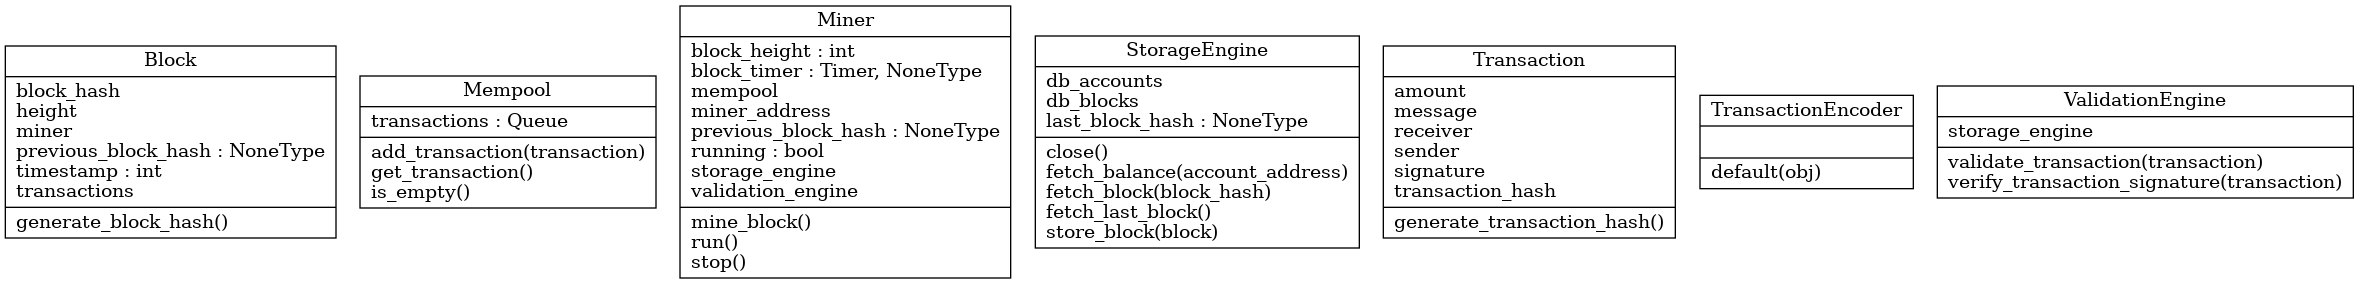
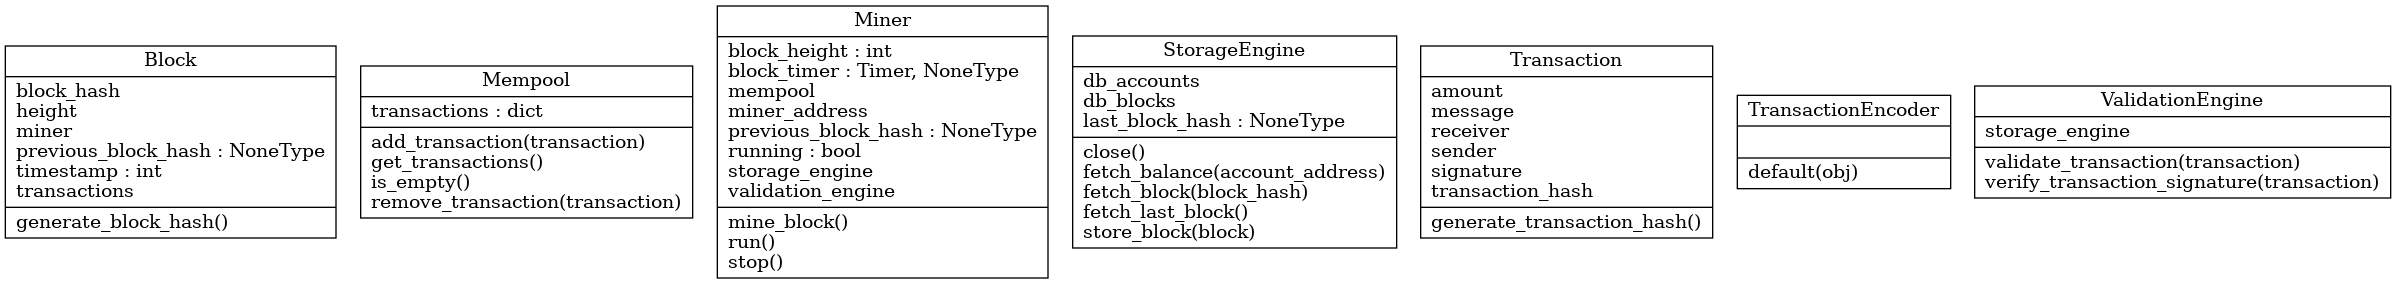
files cleaning and updated class diagram

diff --git a/src/OLD/tinychain.py b/src/OLD/tinychain.py
@@ -1,0 +1,288 @@
+from flask import Flask, request, jsonify
+import threading
+import time
+import blake3
+import logging
+import ecdsa
+from ecdsa import VerifyingKey
+import atexit
+import plyvel
+import json
+from jsonschema import validate
+import jsonschema
+
+app = Flask(__name__)
+
+BLOCK_TIME = 5
+BLOCK_REWARD = 10
[1 lines of base64/hex data omitted]
+
+# Define JSON schema for transaction data validation
+transaction_schema = {
+    "type": "object",
+    "properties": {
+        "sender": {"type": "string"},
+        "receiver": {"type": "string"},
+        "amount": {"type": "number"},
+        "signature": {"type": "string"}
+    },
+    "required": ["sender", "receiver", "amount", "signature"]
+}
+
+class Transaction:
+    def __init__(self, sender, receiver, amount, signature):
+        self.sender = sender
+        self.receiver = receiver
+        self.amount = amount
+        self.signature = signature
+        self.message = f"{sender}-{receiver}-{amount}"
+        self.transaction_hash = self.generate_transaction_hash()
+
+    def generate_transaction_hash(self):
+        hasher = blake3.blake3()
+        hasher.update(str(self.sender).encode())
+        hasher.update(str(self.receiver).encode())
+        hasher.update(str(self.amount).encode())
+        hasher.update(str(self.signature).encode())
+        return hasher.hexdigest()
+
+class TransactionEncoder(json.JSONEncoder):
+    def default(self, obj):
+        if isinstance(obj, Transaction):
+            return {
+                'hash': obj.transaction_hash,
+                'sender': obj.sender,
+                'receiver': obj.receiver,
+                'amount': obj.amount,
+                'signature': obj.signature
+            }
+        return super().default(obj)
+
+class Block:
+    def __init__(self, height, transactions, miner_address, previous_block_hash=None):
+        self.height = height
+        self.transactions = transactions
+        self.timestamp = int(time.time())
+        self.miner = miner_address
+        self.previous_block_hash = previous_block_hash
+        self.block_hash = self.generate_block_hash()
+
+    def generate_block_hash(self):
+        hasher = blake3.blake3()
+        sorted_transactions = sorted(self.transactions, key=lambda t: t.transaction_hash)
+        for transaction in sorted_transactions:
+            hasher.update(transaction.transaction_hash.encode())
+        hasher.update(str(self.timestamp).encode())
+        if self.previous_block_hash:
+            hasher.update(str(self.previous_block_hash).encode())
+        return hasher.hexdigest()
+
+class ValidationEngine:
+    def __init__(self, storage_engine):
+        self.storage_engine = storage_engine
+
+    def validate_transaction(self, transaction):
+        if isinstance(transaction, Transaction):
+            sender_balance = self.storage_engine.fetch_balance(transaction.sender)
+            if sender_balance is not None and sender_balance >= transaction.amount:
+                if self.verify_transaction_signature(transaction):
+                    return True
+        return False
+
+    def verify_transaction_signature(self, transaction):
+        public_key = transaction.sender
+        signature = transaction.signature
+        vk = VerifyingKey.from_string(bytes.fromhex(public_key), curve=ecdsa.SECP256k1)
+        try:
+            vk.verify(bytes.fromhex(signature), transaction.message.encode())
+            return True
+        except ecdsa.BadSignatureError:
+            return False
+
+class Mempool:
+    def __init__(self):
+        self.transactions = {}
+
+    def add_transaction(self, transaction):
+        sender = transaction.sender
+        if sender in self.transactions:
+            self.transactions[sender] = transaction
+        else:
+            self.transactions[sender] = transaction
+
+    def remove_transaction(self, transaction):
+        sender = transaction.sender
+        if sender in self.transactions:
+            del self.transactions[sender]
+
+    def get_transactions(self):
+        return list(self.transactions.values())
+
+    def is_empty(self):
+        return len(self.transactions) == 0
+
+
+class Miner(threading.Thread):
+    def __init__(self, mempool, storage_engine, validation_engine, miner_address, last_block_data):
+        super().__init__()
+        self.mempool = mempool
+        self.storage_engine = storage_engine
+        self.validation_engine = validation_engine
+        self.miner_address = miner_address
+        self.running = True
+        self.previous_block_hash = last_block_data['block_hash'] if last_block_data else None
+        self.block_height = last_block_data['height'] + 1 if last_block_data else 0
+        self.block_timer = None
+
+    def mine_block(self):
+        transactions_to_mine = self.mempool.get_transactions()
+        valid_transactions_to_mine = []
+
+        for transaction in transactions_to_mine:
+            if self.validation_engine.validate_transaction(transaction):
+                valid_transactions_to_mine.append(transaction)
+            else:
+                self.mempool.remove_transaction(transaction)
+
+        transactions_to_include = valid_transactions_to_mine[:3]
+
+        block = Block(self.block_height, transactions_to_include, self.miner_address, self.previous_block_hash)
+        self.storage_engine.store_block(block)
+
+        for transaction in transactions_to_include:
+            self.mempool.remove_transaction(transaction)
+
+        self.previous_block_hash = block.block_hash
+        self.block_height += 1
+
+        self.block_timer = threading.Timer(BLOCK_TIME, self.mine_block)
+        self.block_timer.start()
+
+    def run(self):
+        self.block_timer = threading.Timer(0, self.mine_block)
+        self.block_timer.start()
+
+    def stop(self):
+        self.block_timer.cancel()
+        self.running = False
+
+class StorageEngine:
+    def __init__(self):
+        self.db_blocks = plyvel.DB('blocks.db', create_if_missing=True)
+        self.db_accounts = plyvel.DB('accounts.db', create_if_missing=True)
+        self.last_block_hash = None
+
+    def store_block(self, block):
+        block_data = {
+            'height': block.height,
+            'transactions': block.transactions,
+            'timestamp': block.timestamp,
+            'miner': block.miner,
+            'block_hash': block.block_hash,
+            'previous_block_hash': block.previous_block_hash
+        }
+        self.db_blocks.put(block.block_hash.encode(), json.dumps(block_data, cls=TransactionEncoder).encode())
+        
+        # Update miner account balance with block reward
+        miner_balance = self.fetch_balance(block.miner)
+        if miner_balance is None:
+            self.db_accounts.put(block.miner.encode(), str(0).encode())
+        if miner_balance is not None:
+            self.db_accounts.put(block.miner.encode(), str(miner_balance + BLOCK_REWARD).encode())
+
+        # Update account balances for transactions
+        for transaction in block.transactions:
+            sender = transaction.sender
+            receiver = transaction.receiver
+            amount = transaction.amount
+            sender_balance = self.fetch_balance(sender)
+            if sender_balance is not None:
+                self.db_accounts.put(sender.encode(), str(sender_balance - amount).encode())
+            receiver_balance = self.fetch_balance(receiver)
+            if receiver_balance is None:
+                self.db_accounts.put(receiver.encode(), str(0).encode())
+                receiver_balance = 0
+            receiver_balance += amount
+            self.db_accounts.put(receiver.encode(), str(receiver_balance).encode())
+
+        self.last_block_hash = block.block_hash
+
+        logging.info(f"Stored block: {block.block_hash}")
+
+    def fetch_balance(self, account_address):
+        balance = self.db_accounts.get(account_address.encode())
+        if balance is not None:
+            return int(balance.decode())
+        return None
+
+    def fetch_block(self, block_hash):
+        block_data = self.db_blocks.get(block_hash.encode())
+        if block_data is not None:
+            return json.loads(block_data.decode())
+        return None
+    
+    def fetch_last_block(self):
+        last_block = None
+        for block_hash, block_data in self.db_blocks.iterator(reverse=True):
+            block_info = json.loads(block_data.decode())
+            if last_block is None or block_info['height'] > last_block['height']:
+                last_block = block_info
+        return last_block
+    
+    def close(self):
+        self.db_blocks.close()
+        self.db_accounts.close()
+
+# Configure logging
+logging.basicConfig(level=logging.INFO, format='%(asctime)s - %(levelname)s - %(message)s')
+
+# Create instances of components
+storage_engine = StorageEngine()
+validation_engine = ValidationEngine(storage_engine)
+mempool = Mempool()
+last_block_data = storage_engine.fetch_last_block()
+miner = Miner(mempool, storage_engine, validation_engine, miner_public_key, last_block_data)
+
+# API endpoints
+@app.route('/send_transaction', methods=['POST'])
+def send_transaction():
+    data = request.json
+    if 'transaction' in data:
+        transaction_data = data['transaction']
+        try:
+            validate(instance=transaction_data, schema=transaction_schema)
+            transaction = Transaction(
+                sender=transaction_data['sender'],
+                receiver=transaction_data['receiver'],
+                amount=int(transaction_data['amount']),
+                signature=transaction_data['signature']
+            )
+            if validation_engine.validate_transaction(transaction):
+                mempool.add_transaction(transaction)
+                return jsonify({'message': 'Transaction added to mempool', 'transaction_hash': transaction.transaction_hash})
+        except jsonschema.exceptions.ValidationError:
+            pass
+    return jsonify({'error': 'Invalid transaction data'}), 400
+
+@app.route('/get_block/<string:block_hash>', methods=['GET'])
+def get_block_by_hash(block_hash):
+    block_data = storage_engine.fetch_block(block_hash)
+    if block_data is not None:
+        return jsonify(block_data)
+    return jsonify({'error': 'Block not found'}), 404
+
+stop_event = threading.Event()
+def cleanup():
+    stop_event.set()
+    miner.join()
+    flask_thread.join()
+    storage_engine.close()
+atexit.register(cleanup)
+
+if __name__ == '__main__':
+    flask_thread = threading.Thread(target=app.run, kwargs={'host': '0.0.0.0', 'port': 5000})
+    flask_thread.start()
+
+    miner.start()
+
+    stop_event.wait()
